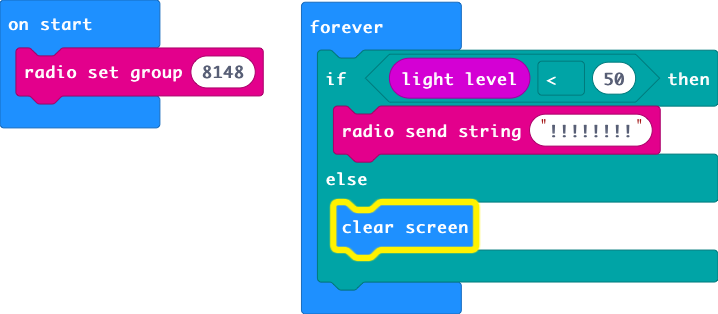
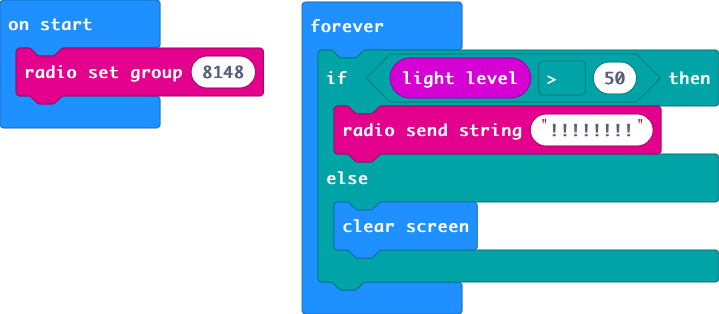
Update main.blocks, main.ts

diff --git a/main.ts b/main.ts
@@ -1,6 +1,6 @@
 radio.setGroup(8148)
 basic.forever(function () {
-    if (input.lightLevel() < 50) {
+    if (input.lightLevel() > 50) {
         radio.sendString("!!!!!!!!")
     } else {
         basic.clearScreen()
